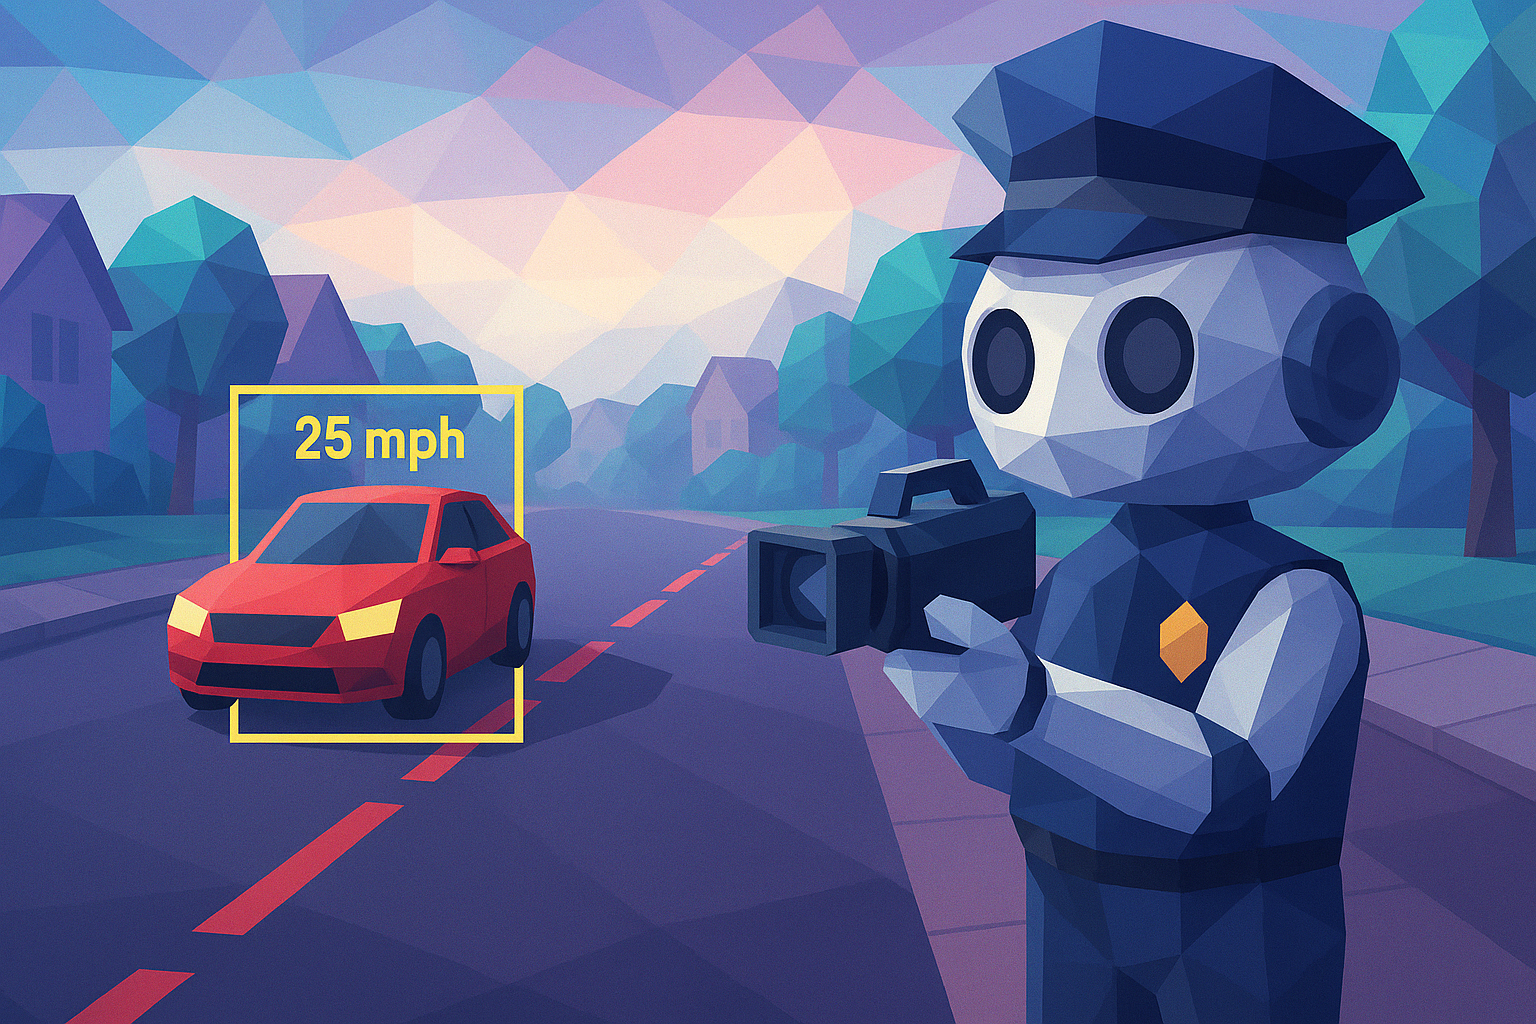
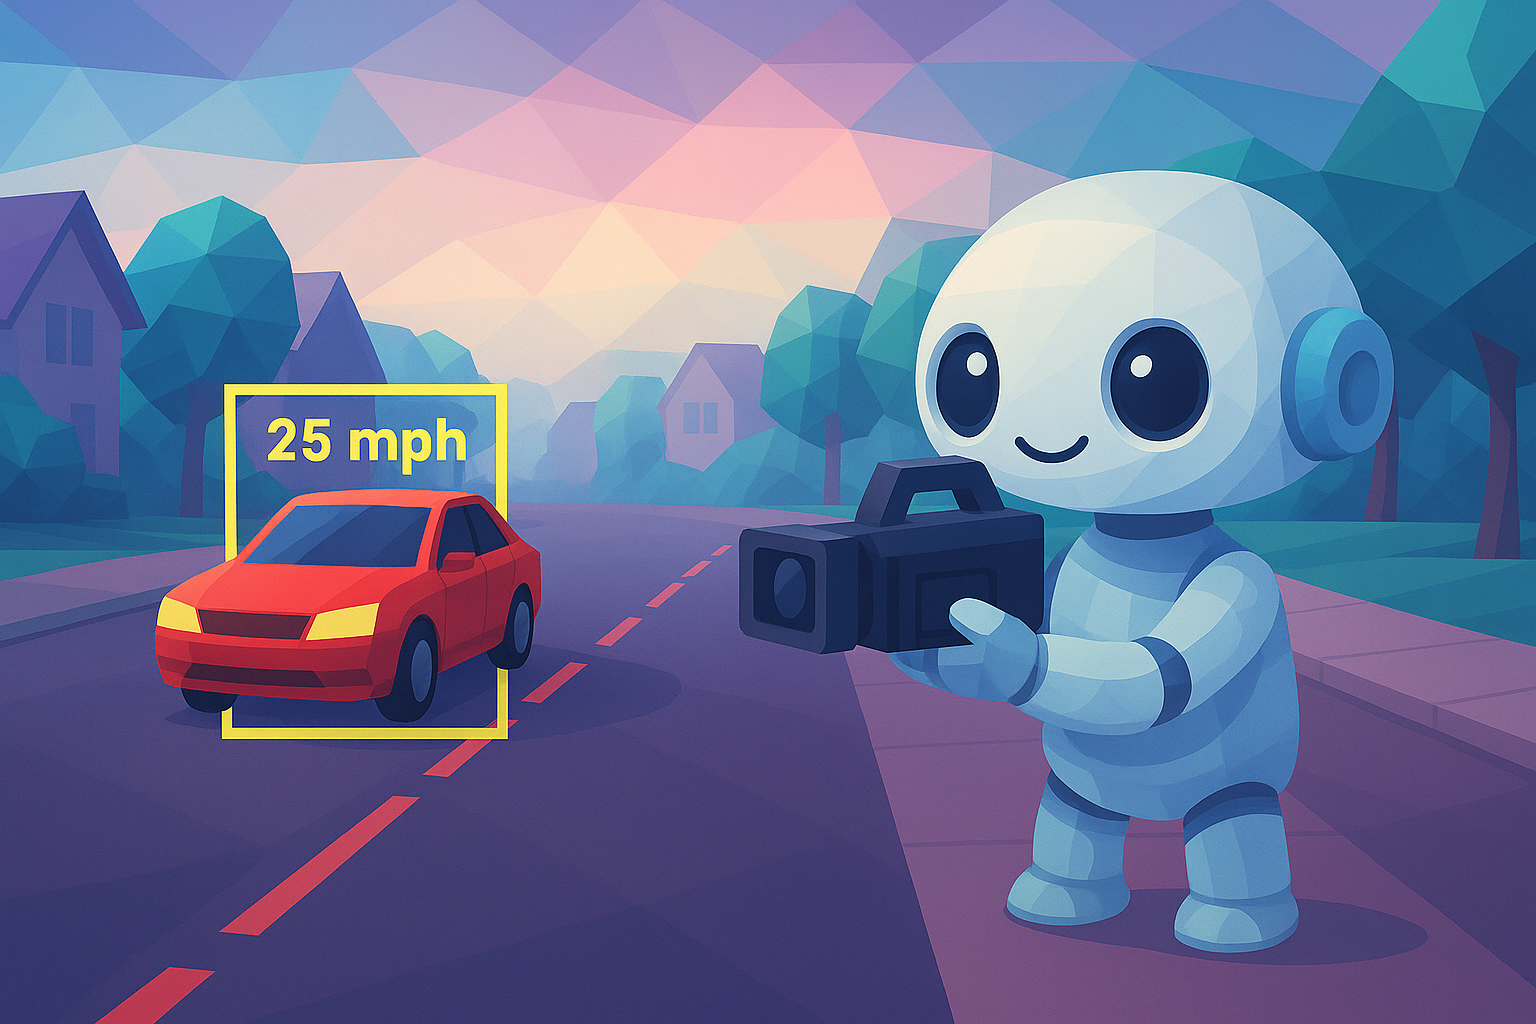
Update README image to new VelocityView AI graphic
# Image Update in README

## Overview
This commit updates the main visual representation of VelocityView AI within the `README.md` by replacing:
- **Old Image**: `assets/velocityviewlowpoly.png`
- **New Image**: `assets/velocityviewlowpoly2.png`

## Changes Made
- **README.md**: Changed markdown image link.
  ```diff
  -![VelocityView AI Overview](assets/velocityviewlowpoly.png)
  +![VelocityView AI Overview](assets/velocityviewlowpoly2.png)
  ```
- **Binary File Updates**:
  - The previous image file, located at `assets/velocityviewlowpoly.png`, has been replaced as indicated by differing binary files.
  - Introduced a new binary file named `assets/velocityviewlowpoly2.png`, which serves as the latest graphical asset for our project documentation.

## Rationale Behind Change
Updating visuals is crucial for maintaining up-to-date and accurate representations of our project's capabilities. This change ensures that users are greeted with an improved and possibly more informative graphic when accessing our repository's main page.

diff --git a/CHANGELOG.md b/CHANGELOG.md
@@ -1,4 +1,25 @@
 
+## 2025-09-01
+# Image Update in README
+
+## Overview
+This commit updates the main visual representation of VelocityView AI within the `README.md` by replacing:
+- **Old Image**: `assets/velocityviewlowpoly.png`
+- **New Image**: `assets/velocityviewlowpoly2.png`
+
+## Changes Made
+- **README.md**: Changed markdown image link.
+  ```diff
+  -![VelocityView AI Overview](assets/velocityviewlowpoly.png)
+  +![VelocityView AI Overview](assets/velocityviewlowpoly2.png)
+  ```
+- **Binary File Updates**:
+  - The previous image file, located at `assets/velocityviewlowpoly.png`, has been replaced as indicated by differing binary files.
+  - Introduced a new binary file named `assets/velocityviewlowpoly2.png`, which serves as the latest graphical asset for our project documentation.
+
+## Rationale Behind Change
+Updating visuals is crucial for maintaining up-to-date and accurate representations of our project's capabilities. This change ensures that users are greeted with an improved and possibly more informative graphic when accessing our repository's main page.
+
 ## 2025-08-31
 # Update README Image
 

diff --git a/README.md b/README.md
@@ -1,4 +1,4 @@
-![VelocityView AI Overview](assets/velocityviewlowpoly.png)
+![VelocityView AI Overview](assets/velocityviewlowpoly2.png)
 
 # 🚦 VelocityView
 Speed Shaming Through |{A,a}✖{I,i}|  Computer Vision
